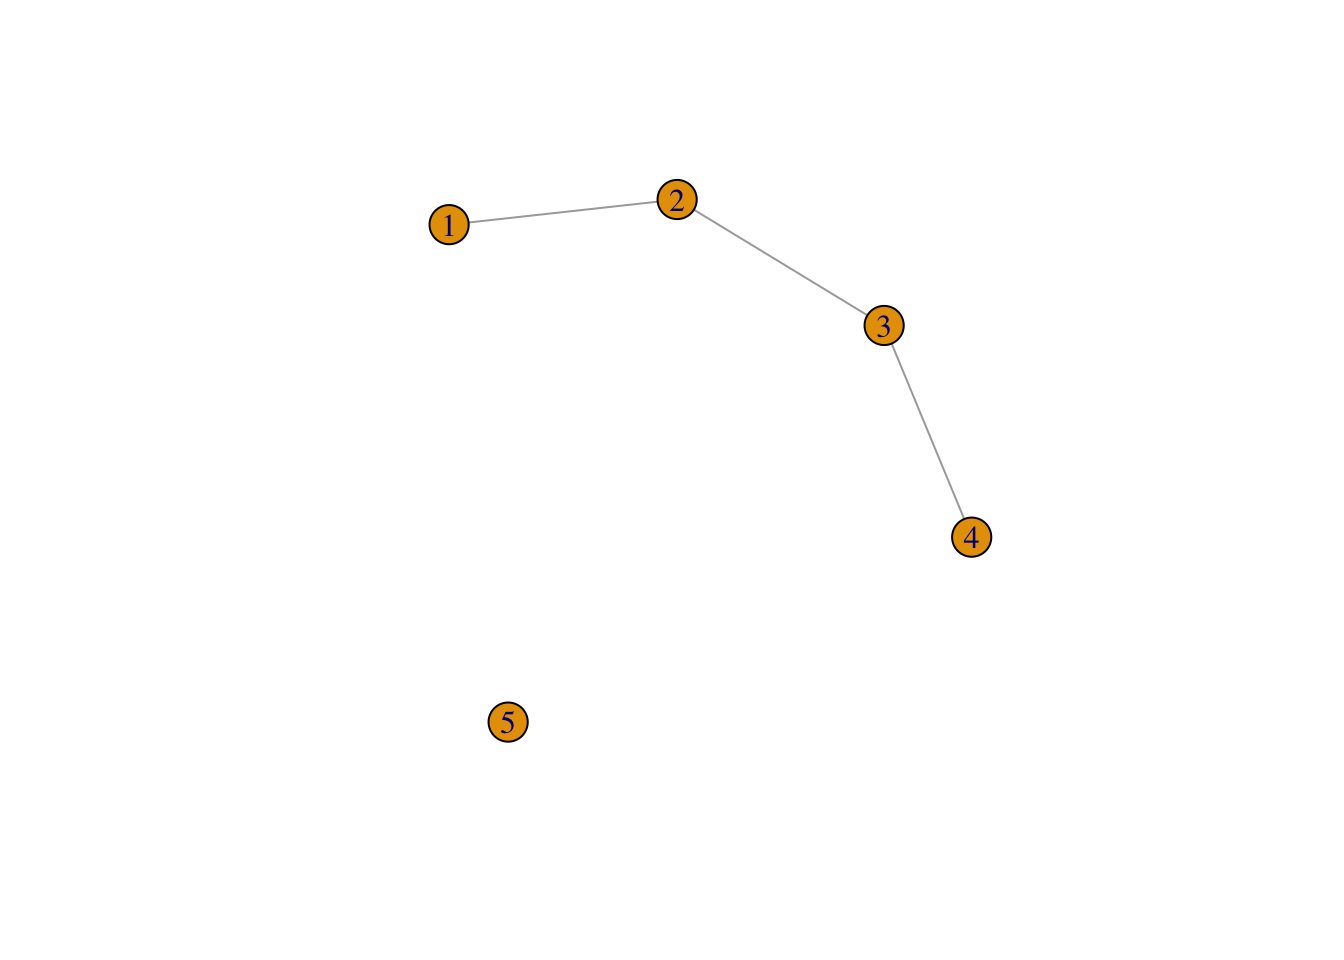
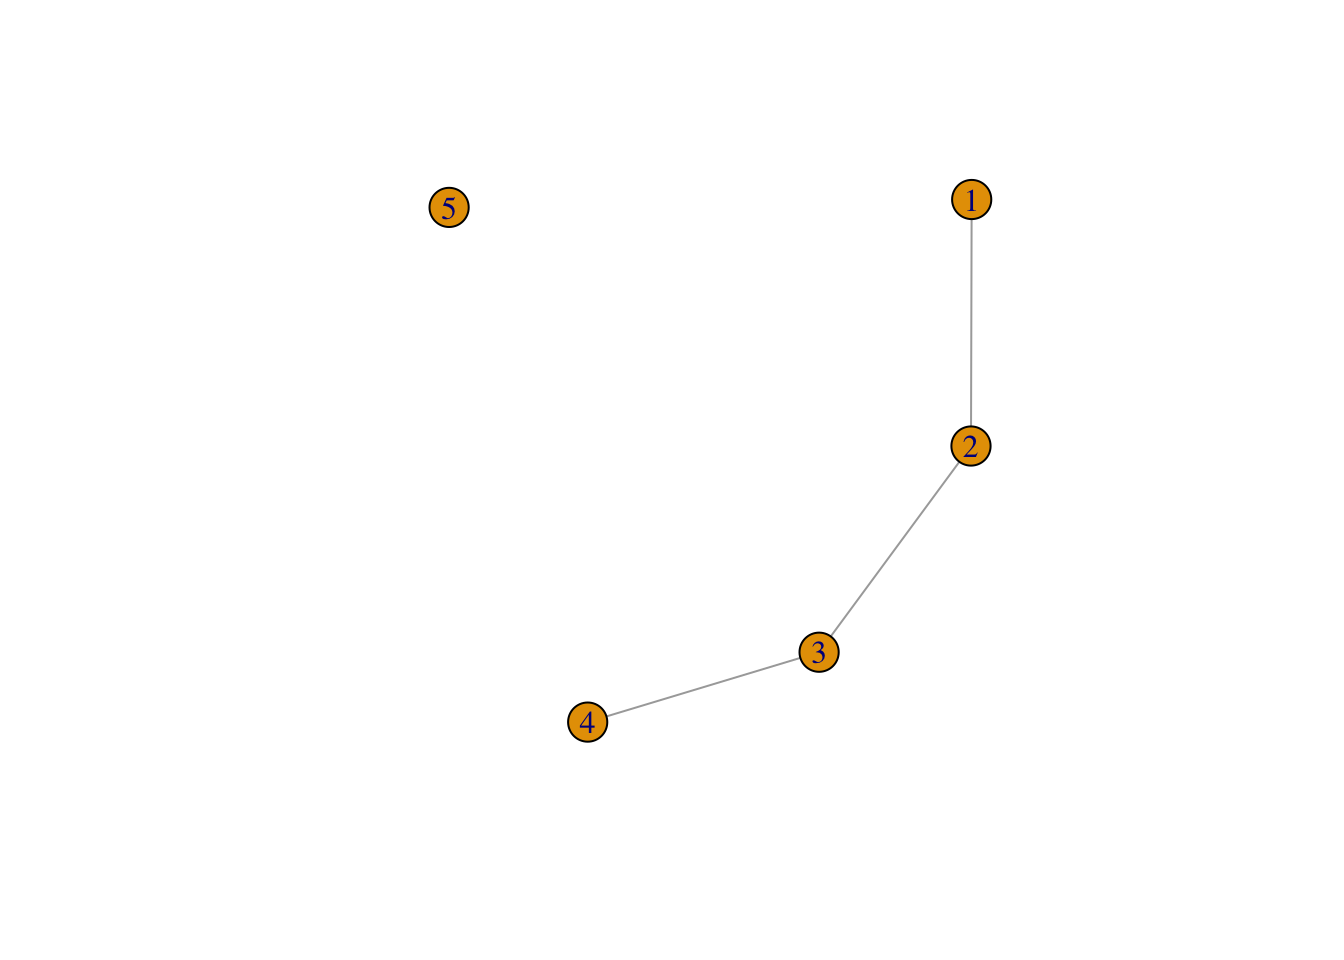
df

diff --git a/docs/posts/Network Data/index.html b/docs/posts/Network Data/index.html
@@ -6,11 +6,11 @@
 
 <meta name="viewport" content="width=device-width, initial-scale=1.0, user-scalable=yes">
 
-<meta name="author" content="Barrie Robison">
+<meta name="author" content="Lucas">
 <meta name="dcterms.date" content="2024-04-04">
 <meta name="description" content="iGRAPH!">
 
-<title>Lucas’ BCB520 - Practice with Network Data</title>
+<title>Lucas’ BCB520 - Network Data</title>
 <style>
 code{white-space: pre-wrap;}
 span.smallcaps{font-variant: small-caps;}
@@ -143,7 +143,7 @@ pre > code.sourceCode > span > a:first-child::before { text-decoration: underlin
 <header id="title-block-header" class="quarto-title-block default page-columns page-full">
   <div class="quarto-title-banner page-columns page-full">
     <div class="quarto-title column-body">
-      <div class="quarto-title-block"><div><h1 class="title">Practice with Network Data</h1><button type="button" class="btn code-tools-button dropdown-toggle" id="quarto-code-tools-menu" data-bs-toggle="dropdown" aria-expanded="false"><i class="bi"></i> Code</button><ul class="dropdown-menu dropdown-menu-end" aria-labelelledby="quarto-code-tools-menu"><li><a id="quarto-show-all-code" class="dropdown-item" href="javascript:void(0)" role="button">Show All Code</a></li><li><a id="quarto-hide-all-code" class="dropdown-item" href="javascript:void(0)" role="button">Hide All Code</a></li><li><hr class="dropdown-divider"></li><li><a id="quarto-view-source" class="dropdown-item" href="javascript:void(0)" role="button">View Source</a></li></ul></div></div>
+      <div class="quarto-title-block"><div><h1 class="title">Network Data</h1><button type="button" class="btn code-tools-button dropdown-toggle" id="quarto-code-tools-menu" data-bs-toggle="dropdown" aria-expanded="false"><i class="bi"></i> Code</button><ul class="dropdown-menu dropdown-menu-end" aria-labelelledby="quarto-code-tools-menu"><li><a id="quarto-show-all-code" class="dropdown-item" href="javascript:void(0)" role="button">Show All Code</a></li><li><a id="quarto-hide-all-code" class="dropdown-item" href="javascript:void(0)" role="button">Hide All Code</a></li><li><hr class="dropdown-divider"></li><li><a id="quarto-view-source" class="dropdown-item" href="javascript:void(0)" role="button">View Source</a></li></ul></div></div>
             <p class="subtitle lead">Nodes and Links and edges and vertices…</p>
                   <div>
         <div class="description">
@@ -166,7 +166,7 @@ pre > code.sourceCode > span > a:first-child::before { text-decoration: underlin
       <div>
       <div class="quarto-title-meta-heading">Author</div>
       <div class="quarto-title-meta-contents">
-               <p>Barrie Robison </p>
+               <p>Lucas </p>
             </div>
     </div>
       
@@ -254,8 +254,8 @@ Attaching package: 'igraph'</code></pre>
 <div class="sourceCode cell-code" id="cb8"><pre class="sourceCode r code-with-copy"><code class="sourceCode r"><span id="cb8-1"><a href="#cb8-1" aria-hidden="true" tabindex="-1"></a>g</span></code><button title="Copy to Clipboard" class="code-copy-button"><i class="bi"></i></button></pre></div>
 </details>
 <div class="cell-output cell-output-stdout">
-<pre><code>IGRAPH b7cbb0b U--- 10 2 -- 
-+ edges from b7cbb0b:
+<pre><code>IGRAPH 09d3ab8 U--- 10 2 -- 
++ edges from 09d3ab8:
 [1] 1--2 1--5</code></pre>
 </div>
 </div>
@@ -279,7 +279,7 @@ Note
 <div class="sourceCode cell-code" id="cb10"><pre class="sourceCode r code-with-copy"><code class="sourceCode r"><span id="cb10-1"><a href="#cb10-1" aria-hidden="true" tabindex="-1"></a><span class="fu">summary</span>(g)</span></code><button title="Copy to Clipboard" class="code-copy-button"><i class="bi"></i></button></pre></div>
 </details>
 <div class="cell-output cell-output-stdout">
-<pre><code>IGRAPH b7cbb0b U--- 10 2 -- </code></pre>
+<pre><code>IGRAPH 09d3ab8 U--- 10 2 -- </code></pre>
 </div>
 </div>
 <p>The same function <code>make_graph</code> can create some notable graphs by just specifying their name. For example you can create the graph that represents the social network of Zachary’s karate club, that shows the friendship between 34 members of a karate club at a US university in the 1970s:</p>
@@ -340,9 +340,9 @@ Note
 <span id="cb17-3"><a href="#cb17-3" aria-hidden="true" tabindex="-1"></a>g</span></code><button title="Copy to Clipboard" class="code-copy-button"><i class="bi"></i></button></pre></div>
 </details>
 <div class="cell-output cell-output-stdout">
-<pre><code>IGRAPH f4510b4 U--- 40 86 -- Zachary
+<pre><code>IGRAPH 6fe9877 U--- 40 86 -- Zachary
 + attr: name (g/c)
-+ edges from f4510b4:
++ edges from 6fe9877:
  [1]  1-- 2  1-- 3  1-- 4  1-- 5  1-- 6  1-- 7  1-- 8  1-- 9  1--11  1--12
 [11]  1--13  1--14  1--18  1--20  1--22  1--32  2-- 3  2-- 4  2-- 8  2--14
 [21]  2--18  2--20  2--22  2--31  3-- 4  3-- 8  3--28  3--29  3--33  3--10
@@ -411,7 +411,7 @@ Note
 <span id="cb25-2"><a href="#cb25-2" aria-hidden="true" tabindex="-1"></a><span class="fu">summary</span>(graph1)</span></code><button title="Copy to Clipboard" class="code-copy-button"><i class="bi"></i></button></pre></div>
 </details>
 <div class="cell-output cell-output-stdout">
-<pre><code>IGRAPH c1c45e3 U--- 127 126 -- Tree
+<pre><code>IGRAPH 9debfcf U--- 127 126 -- Tree
 + attr: name (g/c), children (g/n), mode (g/c)</code></pre>
 </div>
 <details>
@@ -446,7 +446,7 @@ Note
 <span id="cb31-2"><a href="#cb31-2" aria-hidden="true" tabindex="-1"></a><span class="fu">summary</span>(graph1)</span></code><button title="Copy to Clipboard" class="code-copy-button"><i class="bi"></i></button></pre></div>
 </details>
 <div class="cell-output cell-output-stdout">
-<pre><code>IGRAPH 8240dcb U--- 100 508 -- Geometric random graph
+<pre><code>IGRAPH a53bac7 U--- 100 512 -- Geometric random graph
 + attr: name (g/c), radius (g/n), torus (g/l)</code></pre>
 </div>
 <details>
@@ -508,7 +508,7 @@ Note
 <span id="cb40-4"><a href="#cb40-4" aria-hidden="true" tabindex="-1"></a><span class="fu">summary</span>(g)</span></code><button title="Copy to Clipboard" class="code-copy-button"><i class="bi"></i></button></pre></div>
 </details>
 <div class="cell-output cell-output-stdout">
-<pre><code>IGRAPH 4e6132e UN-- 7 9 -- 
+<pre><code>IGRAPH 7e5588e UN-- 7 9 -- 
 + attr: name (v/c), age (v/n), gender (v/c), is_formal (e/l)</code></pre>
 </div>
 </div>
@@ -571,7 +571,7 @@ Note
 <span id="cb51-2"><a href="#cb51-2" aria-hidden="true" tabindex="-1"></a><span class="fu">V</span>(g)</span></code><button title="Copy to Clipboard" class="code-copy-button"><i class="bi"></i></button></pre></div>
 </details>
 <div class="cell-output cell-output-stdout">
-<pre><code>+ 7/7 vertices, named, from 4e6132e:
+<pre><code>+ 7/7 vertices, named, from 7e5588e:
 [1] Alejandra Bruno     Carmina   Frank     Dennis    Esther    George   </code></pre>
 </div>
 </div>
@@ -708,7 +708,7 @@ Note
 <span id="cb73-2"><a href="#cb73-2" aria-hidden="true" tabindex="-1"></a>seq</span></code><button title="Copy to Clipboard" class="code-copy-button"><i class="bi"></i></button></pre></div>
 </details>
 <div class="cell-output cell-output-stdout">
-<pre><code>+ 3/10 vertices, from a1fdf44:
+<pre><code>+ 3/10 vertices, from 6b919ae:
 [1] 2 3 7</code></pre>
 </div>
 </div>
@@ -719,7 +719,7 @@ Note
 <span id="cb75-2"><a href="#cb75-2" aria-hidden="true" tabindex="-1"></a>seq</span></code><button title="Copy to Clipboard" class="code-copy-button"><i class="bi"></i></button></pre></div>
 </details>
 <div class="cell-output cell-output-stdout">
-<pre><code>+ 2/10 vertices, from a1fdf44:
+<pre><code>+ 2/10 vertices, from 6b919ae:
 [1] 2 7</code></pre>
 </div>
 </div>
@@ -744,8 +744,8 @@ Note
 <p>Of course, <code>&lt;</code> is not the only boolean operator that can be used for this. Other possibilities include the following:</p>
 <table class="table">
 <colgroup>
-<col style="width: 13%">
-<col style="width: 86%">
+<col style="width: 20%">
+<col style="width: 79%">
 </colgroup>
 <thead>
 <tr class="header">
@@ -822,7 +822,7 @@ Note
 <div class="sourceCode cell-code" id="cb85"><pre class="sourceCode r code-with-copy"><code class="sourceCode r"><span id="cb85-1"><a href="#cb85-1" aria-hidden="true" tabindex="-1"></a><span class="fu">E</span>(g)[<span class="fu">.from</span>(<span class="dv">3</span>)]</span></code><button title="Copy to Clipboard" class="code-copy-button"><i class="bi"></i></button></pre></div>
 </details>
 <div class="cell-output cell-output-stdout">
-<pre><code>+ 4/9 edges from 4e6132e (vertex names):
+<pre><code>+ 4/9 edges from 7e5588e (vertex names):
 [1] Alejandra--Carmina Carmina  --Frank   Carmina  --Dennis  Carmina  --Esther </code></pre>
 </div>
 </div>
@@ -833,7 +833,7 @@ Note
 <div class="sourceCode cell-code" id="cb87"><pre class="sourceCode r code-with-copy"><code class="sourceCode r"><span id="cb87-1"><a href="#cb87-1" aria-hidden="true" tabindex="-1"></a><span class="fu">E</span>(g)[<span class="fu">.from</span>(<span class="st">"Carmina"</span>)]</span></code><button title="Copy to Clipboard" class="code-copy-button"><i class="bi"></i></button></pre></div>
 </details>
 <div class="cell-output cell-output-stdout">
-<pre><code>+ 4/9 edges from 4e6132e (vertex names):
+<pre><code>+ 4/9 edges from 7e5588e (vertex names):
 [1] Alejandra--Carmina Carmina  --Frank   Carmina  --Dennis  Carmina  --Esther </code></pre>
 </div>
 </div>
@@ -845,7 +845,7 @@ Note
 <div class="sourceCode cell-code" id="cb89"><pre class="sourceCode r code-with-copy"><code class="sourceCode r"><span id="cb89-1"><a href="#cb89-1" aria-hidden="true" tabindex="-1"></a><span class="fu">E</span>(g) [ <span class="dv">3</span><span class="sc">:</span><span class="dv">5</span> <span class="sc">%--%</span> <span class="dv">5</span><span class="sc">:</span><span class="dv">6</span> ]</span></code><button title="Copy to Clipboard" class="code-copy-button"><i class="bi"></i></button></pre></div>
 </details>
 <div class="cell-output cell-output-stdout">
-<pre><code>+ 3/9 edges from 4e6132e (vertex names):
+<pre><code>+ 3/9 edges from 7e5588e (vertex names):
 [1] Carmina--Dennis Carmina--Esther Dennis --Esther</code></pre>
 </div>
 </div>
@@ -882,7 +882,7 @@ Note
 <div class="sourceCode cell-code" id="cb96"><pre class="sourceCode r code-with-copy"><code class="sourceCode r"><span id="cb96-1"><a href="#cb96-1" aria-hidden="true" tabindex="-1"></a><span class="fu">E</span>(g)[men <span class="sc">%--%</span> women]</span></code><button title="Copy to Clipboard" class="code-copy-button"><i class="bi"></i></button></pre></div>
 </details>
 <div class="cell-output cell-output-stdout">
-<pre><code>+ 5/9 edges from 4e6132e (vertex names):
+<pre><code>+ 5/9 edges from 7e5588e (vertex names):
 [1] Alejandra--Bruno  Alejandra--Frank  Carmina  --Frank  Carmina  --Dennis
 [5] Dennis   --Esther</code></pre>
 </div>
@@ -923,8 +923,8 @@ George            .     .       .     1      1      .      .</code></pre>
 <p>The layout functions in igraph always start with <code>layout</code>. The following table summarises them:</p>
 <table class="table">
 <colgroup>
-<col style="width: 15%">
-<col style="width: 84%">
+<col style="width: 20%">
+<col style="width: 79%">
 </colgroup>
 <thead>
 <tr class="header">
@@ -1057,9 +1057,9 @@ George            .     .       .     1      1      .      .</code></pre>
 <h3 class="anchored" data-anchor-id="vertex-attributes-controlling-graph-plots">Vertex attributes controlling graph plots</h3>
 <table class="table">
 <colgroup>
-<col style="width: 5%">
-<col style="width: 8%">
-<col style="width: 86%">
+<col style="width: 13%">
+<col style="width: 13%">
+<col style="width: 72%">
 </colgroup>
 <thead>
 <tr class="header">
@@ -1126,9 +1126,9 @@ George            .     .       .     1      1      .      .</code></pre>
 <h3 class="anchored" data-anchor-id="edge-attributes-controlling-graph-plots">Edge attributes controlling graph plots</h3>
 <table class="table">
 <colgroup>
-<col style="width: 5%">
-<col style="width: 7%">
-<col style="width: 86%">
+<col style="width: 13%">
+<col style="width: 13%">
+<col style="width: 72%">
 </colgroup>
 <thead>
 <tr class="header">
@@ -1196,8 +1196,8 @@ George            .     .       .     1      1      .      .</code></pre>
 <p>These settings can be specified as arguments to the <code>plot</code> function to control the overall appearance of the plot.</p>
 <table class="table">
 <colgroup>
-<col style="width: 6%">
-<col style="width: 93%">
+<col style="width: 16%">
+<col style="width: 83%">
 </colgroup>
 <thead>
 <tr class="header">
@@ -1332,8 +1332,8 @@ Attaching package: 'dplyr'</code></pre>
 </div>
 </section>
 <section id="section" class="level2">
-<h2 class="anchored" data-anchor-id="section"></h2>
-<p>After trying a few different layouts The Kamada-Kawai algorithm seems like the</p>
+<h2 class="anchored" data-anchor-id="section"><img src="images/Screenshot 2024-04-09 at 11.43.50 AM.png" class="img-fluid"></h2>
+<p><strong>After trying a few different layouts The Kamada-Kawai algorithm seems like the right layout that offers the most straightforward interpretation of the BCB520 network.</strong></p>
 
 
 <!-- -->
@@ -1627,13 +1627,13 @@ window.document.addEventListener("DOMContentLoaded", function (event) {
 });
 </script><div class="modal fade" id="quarto-embedded-source-code-modal" tabindex="-1" aria-labelledby="quarto-embedded-source-code-modal-label" aria-hidden="true"><div class="modal-dialog modal-dialog-scrollable"><div class="modal-content"><div class="modal-header"><h5 class="modal-title" id="quarto-embedded-source-code-modal-label">Source Code</h5><button class="btn-close" data-bs-dismiss="modal"></button></div><div class="modal-body"><div class="">
 <div class="sourceCode" id="cb118" data-shortcodes="false"><pre class="sourceCode markdown code-with-copy"><code class="sourceCode markdown"><span id="cb118-1"><a href="#cb118-1" aria-hidden="true" tabindex="-1"></a><span class="co">---</span></span>
-<span id="cb118-2"><a href="#cb118-2" aria-hidden="true" tabindex="-1"></a><span class="an">title:</span><span class="co"> "Practice with Network Data"</span></span>
+<span id="cb118-2"><a href="#cb118-2" aria-hidden="true" tabindex="-1"></a><span class="an">title:</span><span class="co"> "Network Data"</span></span>
 <span id="cb118-3"><a href="#cb118-3" aria-hidden="true" tabindex="-1"></a><span class="an">subtitle:</span><span class="co"> "Nodes and Links and edges and vertices..."</span></span>
 <span id="cb118-4"><a href="#cb118-4" aria-hidden="true" tabindex="-1"></a><span class="an">format:</span></span>
 <span id="cb118-5"><a href="#cb118-5" aria-hidden="true" tabindex="-1"></a><span class="co">  html:</span></span>
 <span id="cb118-6"><a href="#cb118-6" aria-hidden="true" tabindex="-1"></a><span class="co">    toc: false</span></span>
 <span id="cb118-7"><a href="#cb118-7" aria-hidden="true" tabindex="-1"></a><span class="co">    echo: true</span></span>
-<span id="cb118-8"><a href="#cb118-8" aria-hidden="true" tabindex="-1"></a><span class="an">author:</span><span class="co"> "Barrie Robison"</span></span>
+<span id="cb118-8"><a href="#cb118-8" aria-hidden="true" tabindex="-1"></a><span class="an">author:</span><span class="co"> "Lucas"</span></span>
 <span id="cb118-9"><a href="#cb118-9" aria-hidden="true" tabindex="-1"></a><span class="an">date:</span><span class="co"> "2024-04-04"</span></span>
 <span id="cb118-10"><a href="#cb118-10" aria-hidden="true" tabindex="-1"></a><span class="an">categories:</span><span class="co"> [Portfolio, DataViz, Network, iGraph, Assignment]</span></span>
 <span id="cb118-11"><a href="#cb118-11" aria-hidden="true" tabindex="-1"></a><span class="an">image:</span><span class="co"> "wendigonetwork.png"</span></span>

diff --git a/docs/index.html b/docs/index.html
@@ -179,7 +179,7 @@ ul.task-list li input[type="checkbox"] {
 
 <div class="quarto-listing quarto-listing-container-grid" id="listing-listing">
 <div class="list grid quarto-listing-cols-3">
-<div class="g-col-1" data-index="0" data-categories="Portfolio,DataViz,Network,iGraph,Assignment" data-listing-date-sort="1712214000000" data-listing-file-modified-sort="1712688306392" data-listing-date-modified-sort="NaN" data-listing-reading-time-sort="46">
+<div class="g-col-1" data-index="0" data-categories="Portfolio,DataViz,Network,iGraph,Assignment" data-listing-date-sort="1712214000000" data-listing-file-modified-sort="1712693699722" data-listing-date-modified-sort="NaN" data-listing-reading-time-sort="46">
 <a href="./posts/Network Data/index.html" class="quarto-grid-link">
 <div class="quarto-grid-item card h-100 card-left">
 <p class="card-img-top">
@@ -187,7 +187,7 @@ ul.task-list li input[type="checkbox"] {
 </p>
 <div class="card-body post-contents">
 <h5 class="no-anchor card-title listing-title">
-Practice with Network Data
+Network Data
 </h5>
 <div class="listing-categories">
 <div class="listing-category" onclick="window.quartoListingCategory('Portfolio'); return false;">
@@ -211,7 +211,7 @@ iGRAPH!
 </div>
 <div class="card-attribution card-text-small justify">
 <div class="listing-author">
-Barrie Robison
+Lucas
 </div>
 <div class="listing-date">
 Apr 4, 2024
